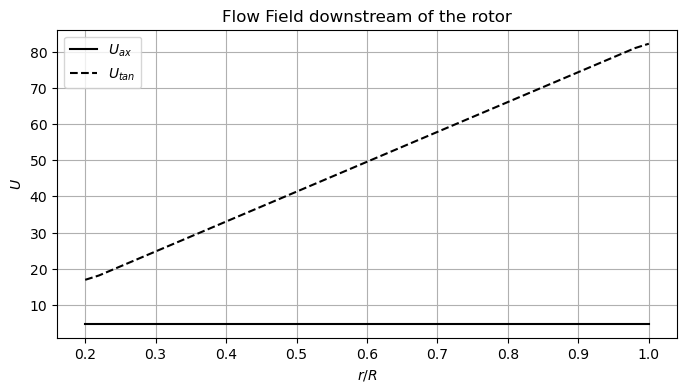
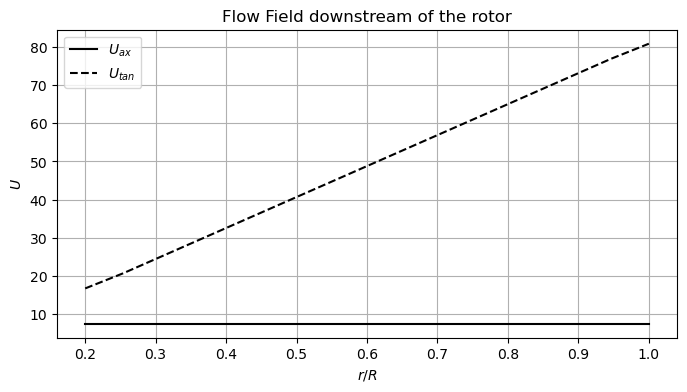
aaa

diff --git a/main.py b/main.py
@@ -65,7 +65,8 @@ a_axial = results[:,1]
 a_tan = results[:,2]
 df_axial = results[:,5]
 df_tan = results[:,6] 
-alpha = results[:,10]
+gamma_BEM = results[:,7] 
+alpha_BEM = results[:,10]
 if averageFactor == 1:
         a_axial[:] = np.mean(a_axial); a_tan[:] = np.mean(a_tan)
 chord_distribution = 3 * (1 - mu) + 1 # meters
@@ -114,7 +115,7 @@ elif spacing == 1:
 vortexSystem["mu"] = (vortexSystem["mu_coord"][1:] + vortexSystem["mu_coord"][:-1]) / 2
 
 vortexSystem["chord"] = np.interp(vortexSystem["mu_coord"],mu,chord_distribution)
-vortexSystem["alpha"] = np.deg2rad(np.interp(vortexSystem["mu_coord"],mu,alpha))
+vortexSystem["alpha"] = np.deg2rad(np.interp(vortexSystem["mu_coord"],mu,alpha_BEM))
 vortexSystem["U_ax"] = np.interp(vortexSystem["mu_coord"],mu,U_inf*(1-a_axial))
 vortexSystem["U_tan"] = np.interp(vortexSystem["mu_coord"],mu,Omega*mu*R*(1+a_tan))
 
@@ -173,6 +174,7 @@ print("The Induction matrix is assembled")
 '''4. Begin the iteration loop '''
 diff = 1000
 tol = 0.01
+Niter = 10000
 iter = 0
 controlPoints["gamma"] = np.ones((N_B*Ncp)) #-3 works well?
 circulation_history = np.empty((N_B*Ncp,0))
@@ -200,6 +202,8 @@ while diff > tol:
         controlPoints["gamma"] = 0.5*(controlPoints["gamma_upd"] + controlPoints["gamma"])
         circulation_history = np.append(circulation_history,controlPoints["gamma"][:,np.newaxis],axis=1)
         iter += 1
+        if iter > Niter:
+                break
 
 # Validation plots
 print("Solution converged")
@@ -209,7 +213,7 @@ fac = np.pi * U_inf**2 / (Omega*N_B)
 plt.plot(controlPoints['r'][0:Ncp]/R,controlPoints['gamma'][0:Ncp]/fac,label=r'$\Gamma_1 /(\pi U^2 / \Omega N_B))$')
 plt.plot(controlPoints['r'][Ncp:2*Ncp]/R,controlPoints['gamma'][0:Ncp]/fac,label=r'$\Gamma_2 /(\pi U^2 / \Omega N_B))$')
 plt.plot(controlPoints['r'][2*Ncp:3*Ncp]/R,controlPoints['gamma'][0:Ncp]/fac,label=r'$\Gamma_3 /(\pi U^2 / \Omega N_B))$')
-
+plt.plot(mu, gamma_BEM/fac, label='BEM Solution')
 plt.xlabel(r'$r/R$')
 plt.legend()
 plt.grid()
@@ -221,6 +225,7 @@ plt.savefig("figures/circulation_converged",bbox_inches='tight')
 fig2 = plt.figure(figsize=(8, 4))
 plt.title('Converged circulation solution')
 plt.plot(controlPoints['r'][0:Ncp]/R,np.rad2deg(controlPoints['alpha'][0:Ncp]),label=r'$\alpha [deg]$')
+plt.plot(mu, alpha_BEM, label='BEM Solution')
 plt.xlabel(r'$r/R$')
 plt.legend()
 plt.grid()
